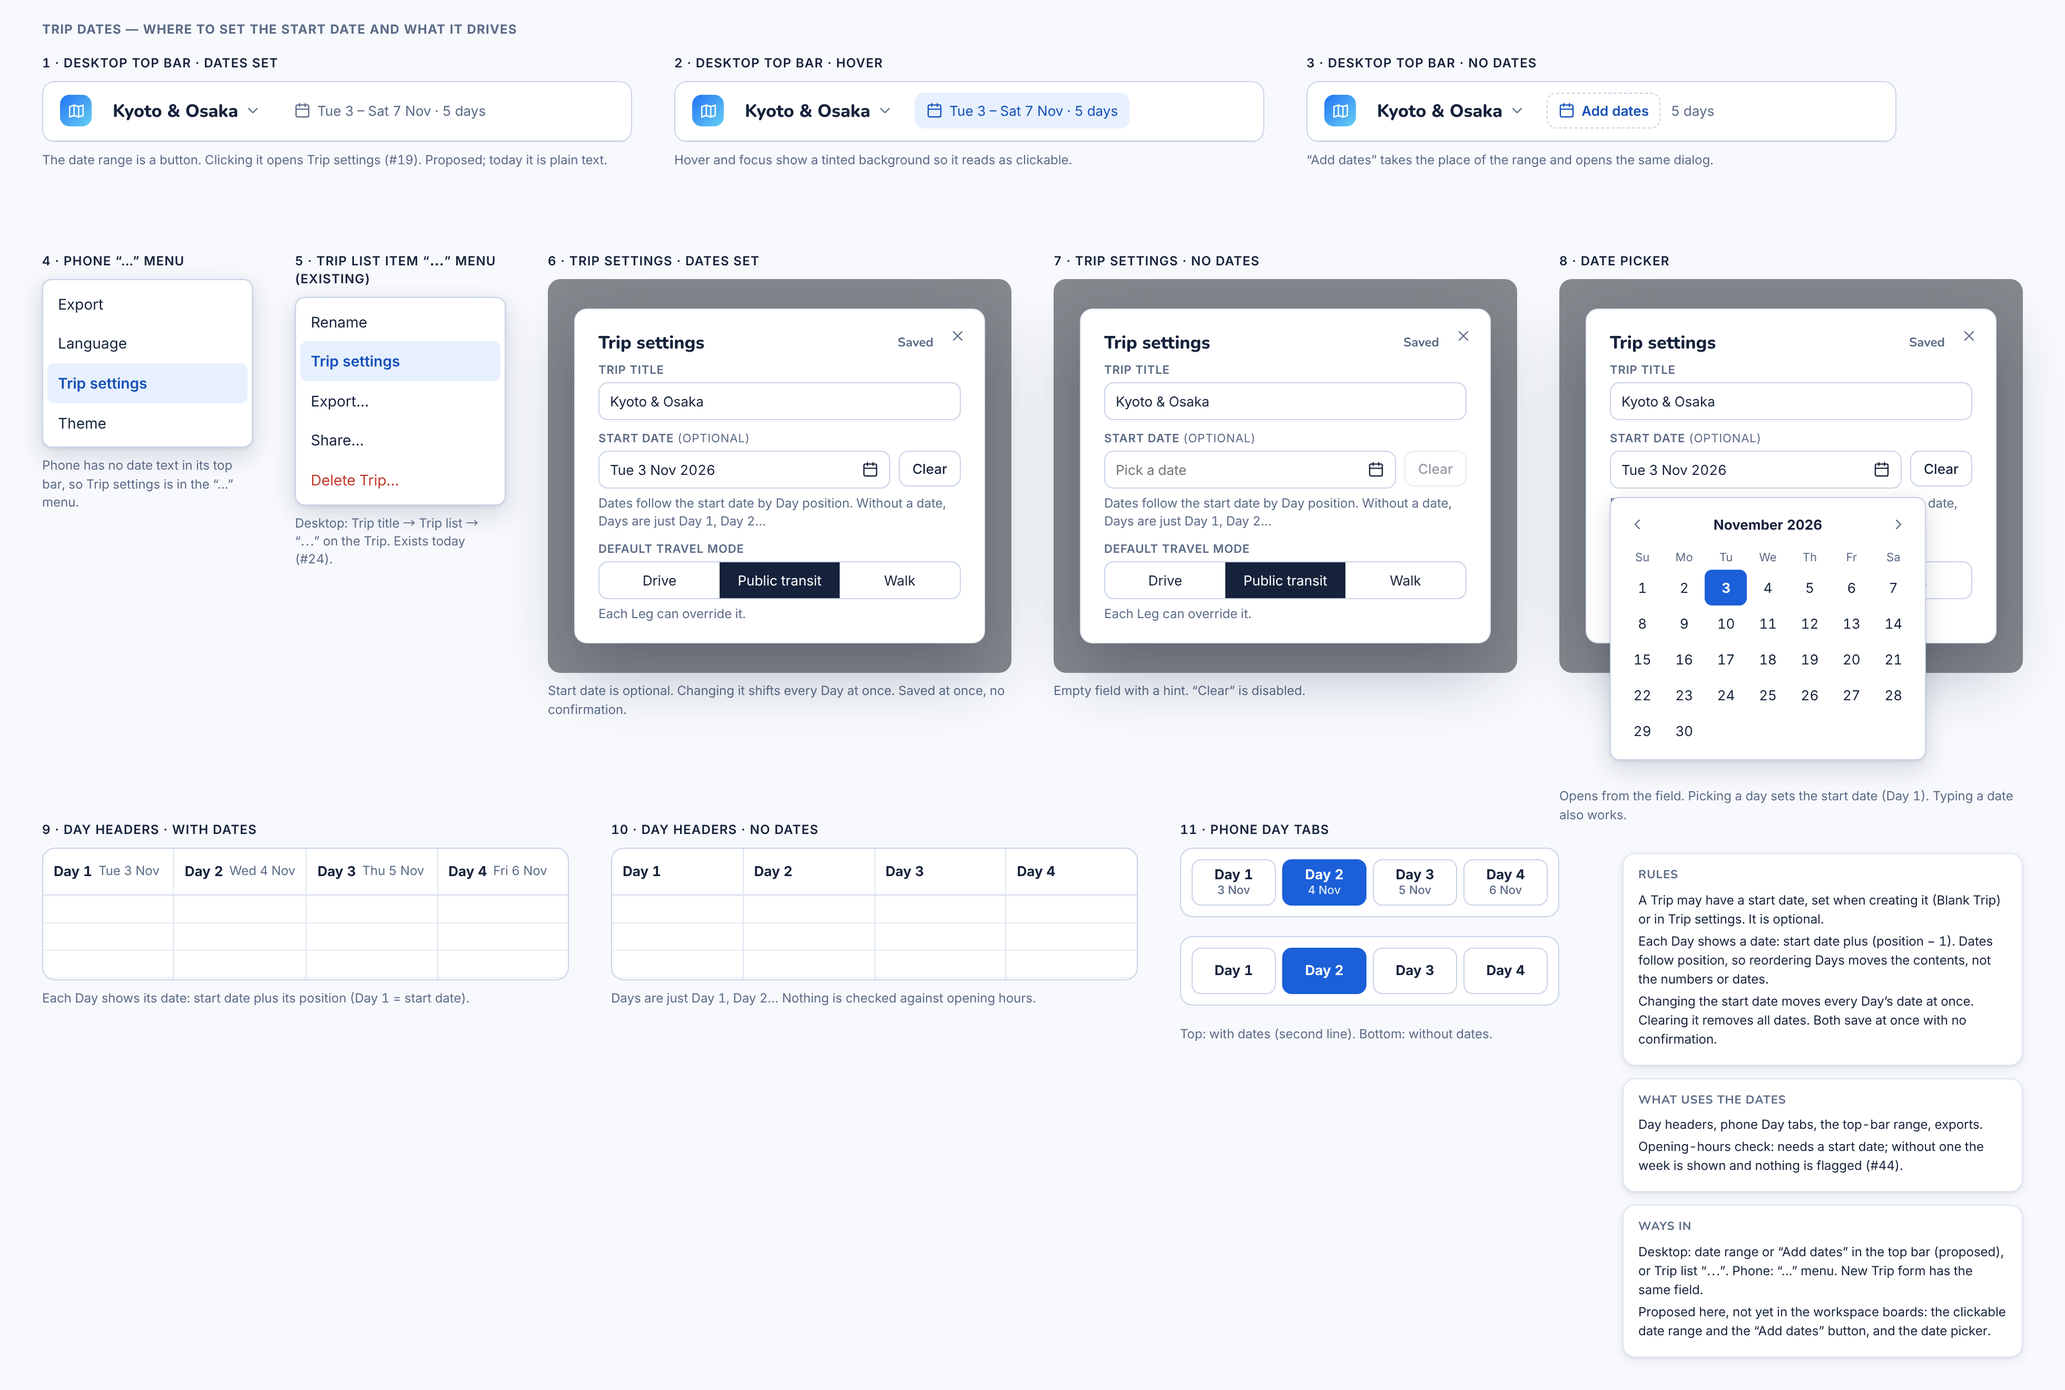
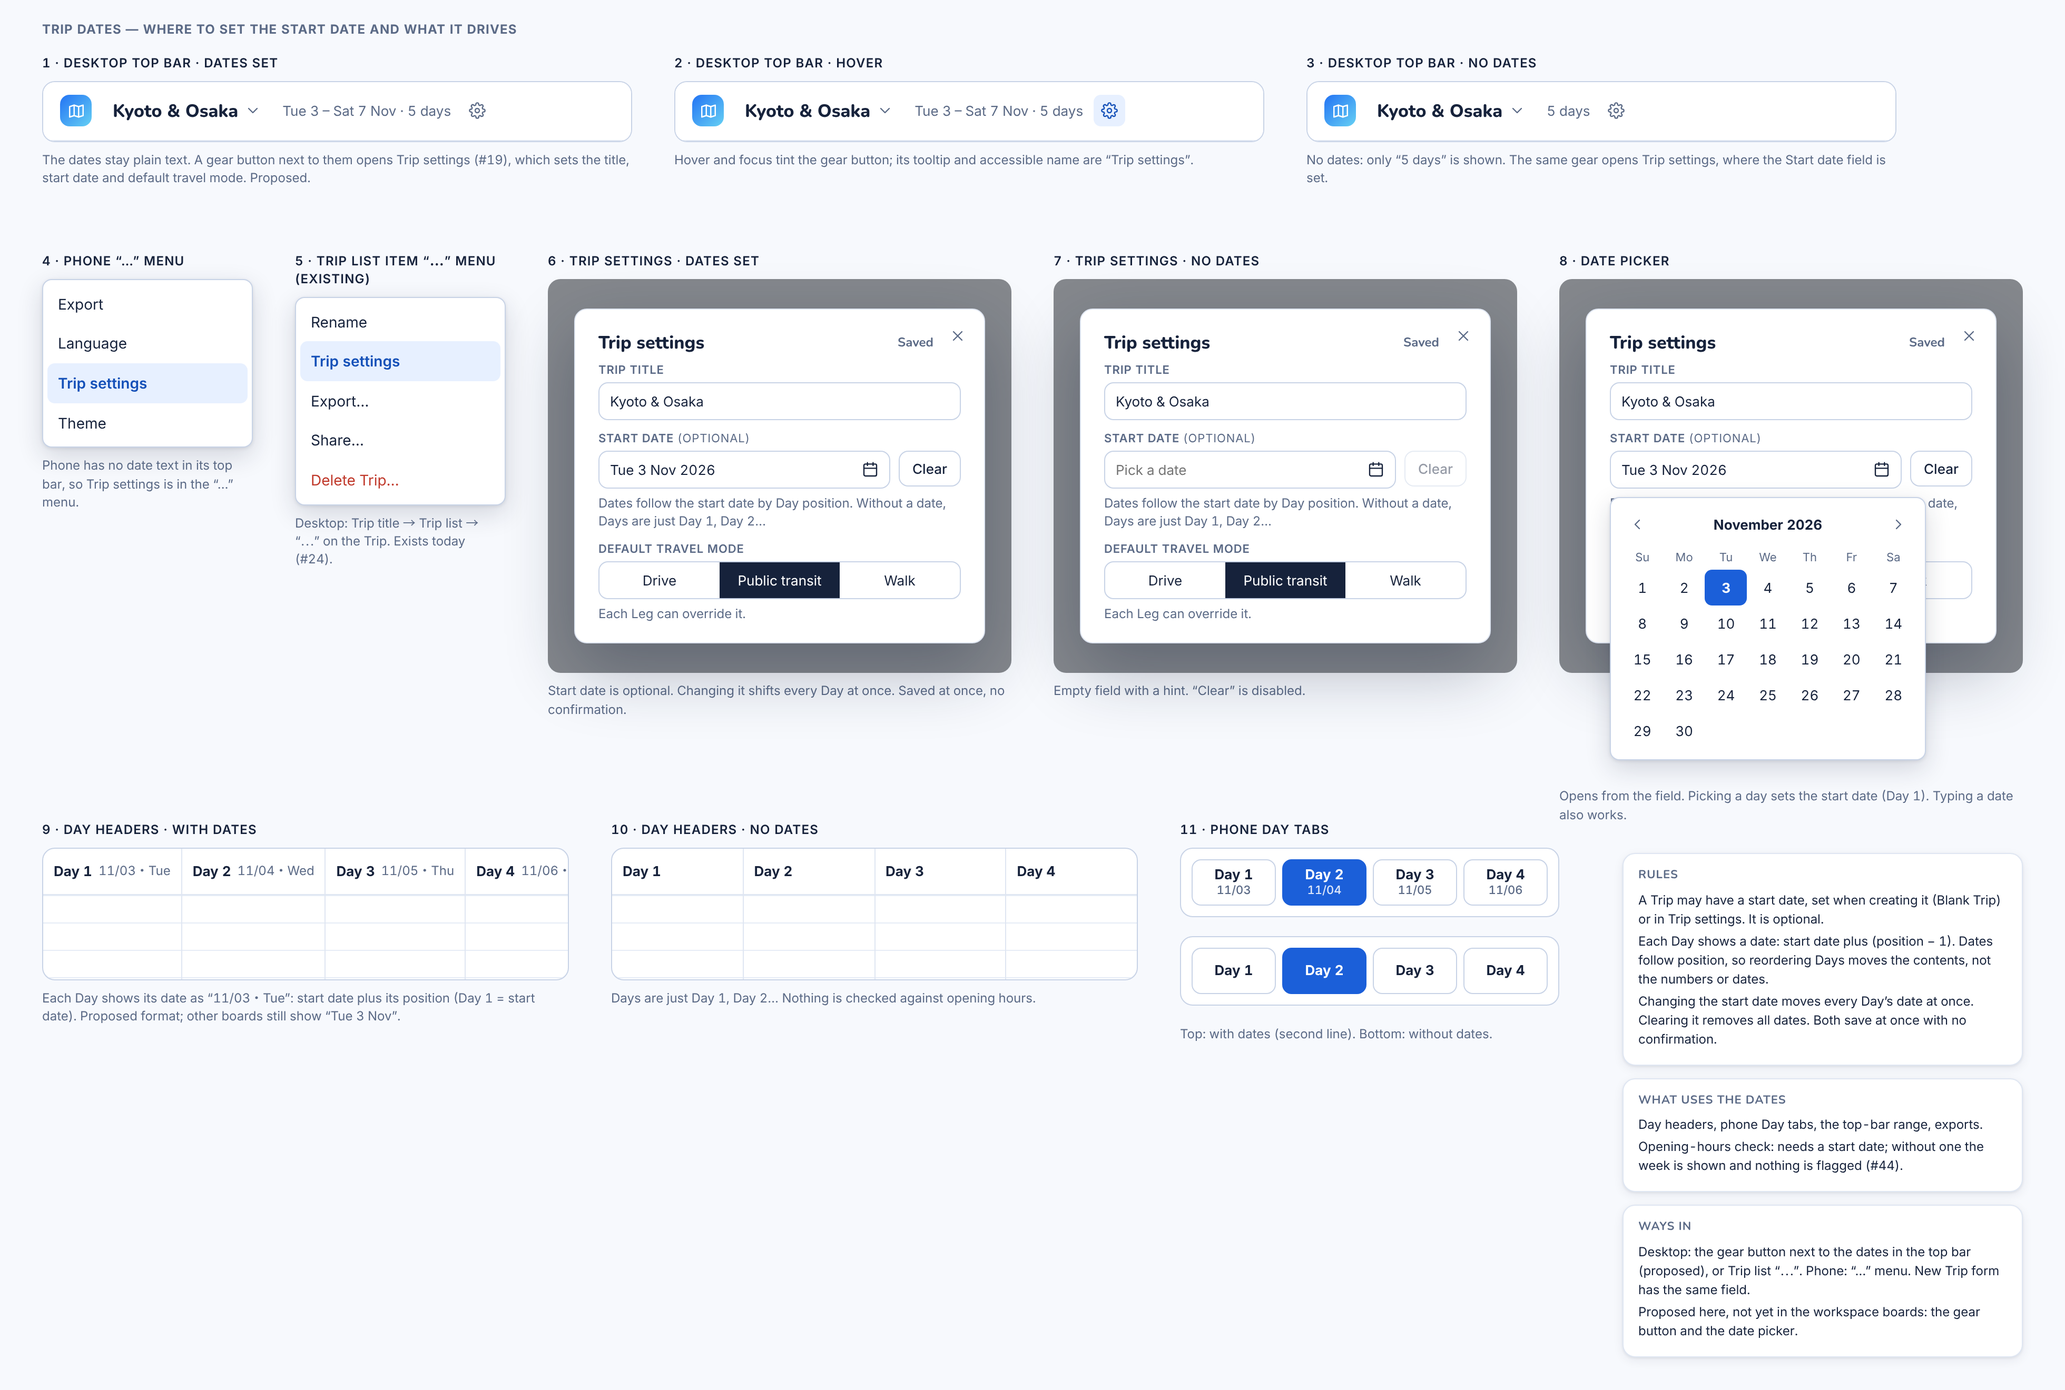
design: Trip settings opens from a gear button in the top bar (45)
The dates stay plain text; a gear button next to them opens Trip settings, which also sets the title and default travel mode. Plan step 35 updated.

Claude-Session: https://claude.ai/code/session_01ApyCzPCJKGqkVKrHKpuQZX

diff --git a/docs/design/source/TripDates.dc.html b/docs/design/source/TripDates.dc.html
@@ -23,6 +23,7 @@ button{font:inherit;color:inherit;cursor:pointer;text-align:left}
 .td-cp{font-size:12px;color:var(--muted);line-height:1.45}
 .td-bw{border:1px solid var(--border2);border-radius:var(--r-lg);overflow:hidden;background:var(--surface)}
 .td-bar{position:static;width:auto}
+.td-gear{color:var(--muted)}.td-gear.hv{background:var(--pri-tint);color:var(--pri-ink)}
 .td-date{display:inline-flex;gap:6px;align-items:center;height:34px;padding:0 10px;border:1px solid transparent;border-radius:var(--r-md);background:transparent;color:var(--muted);font-size:13px;white-space:nowrap}
 .td-date.hv{background:var(--pri-tint);color:var(--pri-ink)}
 .td-date.add{border:1px dashed var(--border2);color:var(--pri-ink);font-weight:600}
@@ -58,7 +59,7 @@ button{font:inherit;color:inherit;cursor:pointer;text-align:left}
 </helmet>
 <div class="hf wfroot">
 <div class="td-t">Trip dates — where to set the start date and what it drives</div>
-<div class="td-row" style="top:52px"><div class="td-item" style="width:560px"><div class="td-cap">1 · Desktop top bar · dates set</div><div class="td-bw"><header class="topbar td-bar"><span class="logo"><svg class="i" style="width:17px;height:17px;" viewBox="0 0 24 24" aria-hidden="true"><path d="M9 4L3 6v14l6-2 6 2 6-2V4l-6 2z"></path><path d="M9 4v14M15 6v14"></path></svg></span><button class="title" aria-haspopup="true" aria-label="Trips: Kyoto &amp; Osaka">Kyoto &amp; Osaka<svg class="i" style="color:var(--muted)" viewBox="0 0 24 24" aria-hidden="true"><path d="M6 9l6 6 6-6"></path></svg></button><button class="td-date" aria-label="Trip dates: Tue 3 to Sat 7 Nov, 5 days. Opens Trip settings"><svg class="i" viewBox="0 0 24 24" fill="none" stroke="currentColor" stroke-width="2" stroke-linecap="round" stroke-linejoin="round" aria-hidden="true" style=""><rect x="3" y="4" width="18" height="17" rx="2"></rect><path d="M3 10h18M8 2v4M16 2v4"></path></svg>Tue 3 – Sat 7 Nov · 5 days</button></header></div><div class="td-cp" style="margin-top:0px">The date range is a button. Clicking it opens Trip settings (#19). Proposed; today it is plain text.</div></div><div class="td-item" style="width:560px"><div class="td-cap">2 · Desktop top bar · hover</div><div class="td-bw"><header class="topbar td-bar"><span class="logo"><svg class="i" style="width:17px;height:17px;" viewBox="0 0 24 24" aria-hidden="true"><path d="M9 4L3 6v14l6-2 6 2 6-2V4l-6 2z"></path><path d="M9 4v14M15 6v14"></path></svg></span><button class="title" aria-haspopup="true" aria-label="Trips: Kyoto &amp; Osaka">Kyoto &amp; Osaka<svg class="i" style="color:var(--muted)" viewBox="0 0 24 24" aria-hidden="true"><path d="M6 9l6 6 6-6"></path></svg></button><button class="td-date hv" aria-label="Trip dates. Opens Trip settings"><svg class="i" viewBox="0 0 24 24" fill="none" stroke="currentColor" stroke-width="2" stroke-linecap="round" stroke-linejoin="round" aria-hidden="true" style=""><rect x="3" y="4" width="18" height="17" rx="2"></rect><path d="M3 10h18M8 2v4M16 2v4"></path></svg>Tue 3 – Sat 7 Nov · 5 days</button></header></div><div class="td-cp" style="margin-top:0px">Hover and focus show a tinted background so it reads as clickable.</div></div><div class="td-item" style="width:560px"><div class="td-cap">3 · Desktop top bar · no dates</div><div class="td-bw"><header class="topbar td-bar"><span class="logo"><svg class="i" style="width:17px;height:17px;" viewBox="0 0 24 24" aria-hidden="true"><path d="M9 4L3 6v14l6-2 6 2 6-2V4l-6 2z"></path><path d="M9 4v14M15 6v14"></path></svg></span><button class="title" aria-haspopup="true" aria-label="Trips: Kyoto &amp; Osaka">Kyoto &amp; Osaka<svg class="i" style="color:var(--muted)" viewBox="0 0 24 24" aria-hidden="true"><path d="M6 9l6 6 6-6"></path></svg></button><button class="td-date add" aria-label="Add dates. Opens Trip settings"><svg class="i" viewBox="0 0 24 24" fill="none" stroke="currentColor" stroke-width="2" stroke-linecap="round" stroke-linejoin="round" aria-hidden="true" style=""><rect x="3" y="4" width="18" height="17" rx="2"></rect><path d="M3 10h18M8 2v4M16 2v4"></path></svg>Add dates</button><span class="muted">5 days</span></header></div><div class="td-cp" style="margin-top:0px">“Add dates” takes the place of the range and opens the same dialog.</div></div></div>
+<div class="td-row" style="top:52px"><div class="td-item" style="width:560px"><div class="td-cap">1 · Desktop top bar · dates set</div><div class="td-bw"><header class="topbar td-bar"><span class="logo"><svg class="i" style="width:17px;height:17px;" viewBox="0 0 24 24" aria-hidden="true"><path d="M9 4L3 6v14l6-2 6 2 6-2V4l-6 2z"></path><path d="M9 4v14M15 6v14"></path></svg></span><button class="title" aria-haspopup="true" aria-label="Trips: Kyoto &amp; Osaka">Kyoto &amp; Osaka<svg class="i" style="color:var(--muted)" viewBox="0 0 24 24" aria-hidden="true"><path d="M6 9l6 6 6-6"></path></svg></button><span class="muted">Tue 3 – Sat 7 Nov · 5 days</span><button class="ib td-gear" aria-label="Trip settings" title="Trip settings"><svg class="i" viewBox="0 0 24 24" fill="none" stroke="currentColor" stroke-width="2" stroke-linecap="round" stroke-linejoin="round" aria-hidden="true"><circle cx="12" cy="12" r="3"></circle><path d="M19.4 15a1.65 1.65 0 0 0 .33 1.82l.06.06a2 2 0 1 1-2.83 2.83l-.06-.06a1.65 1.65 0 0 0-1.82-.33 1.65 1.65 0 0 0-1 1.51V21a2 2 0 1 1-4 0v-.09A1.65 1.65 0 0 0 9 19.4a1.65 1.65 0 0 0-1.82.33l-.06.06a2 2 0 1 1-2.83-2.83l.06-.06a1.65 1.65 0 0 0 .33-1.82 1.65 1.65 0 0 0-1.51-1H3a2 2 0 1 1 0-4h.09A1.65 1.65 0 0 0 4.6 9a1.65 1.65 0 0 0-.33-1.82l-.06-.06a2 2 0 1 1 2.83-2.83l.06.06a1.65 1.65 0 0 0 1.82.33H9a1.65 1.65 0 0 0 1-1.51V3a2 2 0 1 1 4 0v.09a1.65 1.65 0 0 0 1 1.51 1.65 1.65 0 0 0 1.82-.33l.06-.06a2 2 0 1 1 2.83 2.83l-.06.06a1.65 1.65 0 0 0-.33 1.82V9a1.65 1.65 0 0 0 1.51 1H21a2 2 0 1 1 0 4h-.09a1.65 1.65 0 0 0-1.51 1z"></path></svg></button></header></div><div class="td-cp" style="margin-top:0px">The dates stay plain text. A gear button next to them opens Trip settings (#19), which sets the title, start date and default travel mode. Proposed.</div></div><div class="td-item" style="width:560px"><div class="td-cap">2 · Desktop top bar · hover</div><div class="td-bw"><header class="topbar td-bar"><span class="logo"><svg class="i" style="width:17px;height:17px;" viewBox="0 0 24 24" aria-hidden="true"><path d="M9 4L3 6v14l6-2 6 2 6-2V4l-6 2z"></path><path d="M9 4v14M15 6v14"></path></svg></span><button class="title" aria-haspopup="true" aria-label="Trips: Kyoto &amp; Osaka">Kyoto &amp; Osaka<svg class="i" style="color:var(--muted)" viewBox="0 0 24 24" aria-hidden="true"><path d="M6 9l6 6 6-6"></path></svg></button><span class="muted">Tue 3 – Sat 7 Nov · 5 days</span><button class="ib td-gear hv" aria-label="Trip settings" title="Trip settings"><svg class="i" viewBox="0 0 24 24" fill="none" stroke="currentColor" stroke-width="2" stroke-linecap="round" stroke-linejoin="round" aria-hidden="true"><circle cx="12" cy="12" r="3"></circle><path d="M19.4 15a1.65 1.65 0 0 0 .33 1.82l.06.06a2 2 0 1 1-2.83 2.83l-.06-.06a1.65 1.65 0 0 0-1.82-.33 1.65 1.65 0 0 0-1 1.51V21a2 2 0 1 1-4 0v-.09A1.65 1.65 0 0 0 9 19.4a1.65 1.65 0 0 0-1.82.33l-.06.06a2 2 0 1 1-2.83-2.83l.06-.06a1.65 1.65 0 0 0 .33-1.82 1.65 1.65 0 0 0-1.51-1H3a2 2 0 1 1 0-4h.09A1.65 1.65 0 0 0 4.6 9a1.65 1.65 0 0 0-.33-1.82l-.06-.06a2 2 0 1 1 2.83-2.83l.06.06a1.65 1.65 0 0 0 1.82.33H9a1.65 1.65 0 0 0 1-1.51V3a2 2 0 1 1 4 0v.09a1.65 1.65 0 0 0 1 1.51 1.65 1.65 0 0 0 1.82-.33l.06-.06a2 2 0 1 1 2.83 2.83l-.06.06a1.65 1.65 0 0 0-.33 1.82V9a1.65 1.65 0 0 0 1.51 1H21a2 2 0 1 1 0 4h-.09a1.65 1.65 0 0 0-1.51 1z"></path></svg></button></header></div><div class="td-cp" style="margin-top:0px">Hover and focus tint the gear button; its tooltip and accessible name are “Trip settings”.</div></div><div class="td-item" style="width:560px"><div class="td-cap">3 · Desktop top bar · no dates</div><div class="td-bw"><header class="topbar td-bar"><span class="logo"><svg class="i" style="width:17px;height:17px;" viewBox="0 0 24 24" aria-hidden="true"><path d="M9 4L3 6v14l6-2 6 2 6-2V4l-6 2z"></path><path d="M9 4v14M15 6v14"></path></svg></span><button class="title" aria-haspopup="true" aria-label="Trips: Kyoto &amp; Osaka">Kyoto &amp; Osaka<svg class="i" style="color:var(--muted)" viewBox="0 0 24 24" aria-hidden="true"><path d="M6 9l6 6 6-6"></path></svg></button><span class="muted">5 days</span><button class="ib td-gear" aria-label="Trip settings" title="Trip settings"><svg class="i" viewBox="0 0 24 24" fill="none" stroke="currentColor" stroke-width="2" stroke-linecap="round" stroke-linejoin="round" aria-hidden="true"><circle cx="12" cy="12" r="3"></circle><path d="M19.4 15a1.65 1.65 0 0 0 .33 1.82l.06.06a2 2 0 1 1-2.83 2.83l-.06-.06a1.65 1.65 0 0 0-1.82-.33 1.65 1.65 0 0 0-1 1.51V21a2 2 0 1 1-4 0v-.09A1.65 1.65 0 0 0 9 19.4a1.65 1.65 0 0 0-1.82.33l-.06.06a2 2 0 1 1-2.83-2.83l.06-.06a1.65 1.65 0 0 0 .33-1.82 1.65 1.65 0 0 0-1.51-1H3a2 2 0 1 1 0-4h.09A1.65 1.65 0 0 0 4.6 9a1.65 1.65 0 0 0-.33-1.82l-.06-.06a2 2 0 1 1 2.83-2.83l.06.06a1.65 1.65 0 0 0 1.82.33H9a1.65 1.65 0 0 0 1-1.51V3a2 2 0 1 1 4 0v.09a1.65 1.65 0 0 0 1 1.51 1.65 1.65 0 0 0 1.82-.33l.06-.06a2 2 0 1 1 2.83 2.83l-.06.06a1.65 1.65 0 0 0-.33 1.82V9a1.65 1.65 0 0 0 1.51 1H21a2 2 0 1 1 0 4h-.09a1.65 1.65 0 0 0-1.51 1z"></path></svg></button></header></div><div class="td-cp" style="margin-top:0px">No dates: only “5 days” is shown. The same gear opens Trip settings, where the Start date field is set.</div></div></div>
 <div class="td-row" style="top:240px"><div class="td-item" style="width:200px"><div class="td-cap">4 · Phone “…” menu</div><div class="td-menu" style="width:200px"><div class="td-mi">Export</div><div class="td-mi">Language</div><div class="td-mi hi">Trip settings</div><div class="td-mi">Theme</div></div><div class="td-cp" style="margin-top:0px">Phone has no date text in its top bar, so Trip settings is in the “…” menu.</div></div><div class="td-item" style="width:200px"><div class="td-cap">5 · Trip list item “⋯” menu (existing)</div><div class="td-menu" style="width:200px"><div class="td-mi">Rename</div><div class="td-mi hi">Trip settings</div><div class="td-mi">Export…</div><div class="td-mi">Share…</div><div class="td-mi dg">Delete Trip…</div></div><div class="td-cp" style="margin-top:0px">Desktop: Trip title → Trip list → “⋯” on the Trip. Exists today (#24).</div></div><div class="td-item" style="width:440px"><div class="td-cap">6 · Trip settings · dates set</div><div class="td-bd"><section class="dlg" role="dialog" aria-modal="true" style="width:390px"><button class="ib x" aria-label="Close settings"><svg class="i" viewBox="0 0 24 24" fill="none" stroke="currentColor" stroke-width="2" stroke-linecap="round" stroke-linejoin="round" aria-hidden="true" style=""><path d="M6 6l12 12M18 6L6 18"></path></svg></button><h2>Trip settings <span class="muted" style="font-size:12px;font-weight:400;margin-left:auto;margin-right:26px">Saved</span></h2>
 <span class="lbl" style="margin-top:4px">Trip title</span><div class="in"><input aria-label="Trip title" value="Kyoto &amp; Osaka"></div>
 <span class="lbl">Start date <span class="muted" style="font-weight:400">(optional)</span></span><div style="position:relative"><div style="display:flex;gap:8px"><div class="in" style="flex:1"><input aria-label="Start date" value="Tue 3 Nov 2026"><svg class="i" viewBox="0 0 24 24" fill="none" stroke="currentColor" stroke-width="2" stroke-linecap="round" stroke-linejoin="round" aria-hidden="true" style=""><rect x="3" y="4" width="18" height="17" rx="2"></rect><path d="M3 10h18M8 2v4M16 2v4"></path></svg></div><button class="btn">Clear</button></div></div>
@@ -82,7 +83,7 @@ button{font:inherit;color:inherit;cursor:pointer;text-align:left}
 <div class="td-row" style="top:810px;left:1540px"><aside class="td-side">
 <div class="mc"><h4>Rules</h4><div>A Trip may have a start date, set when creating it (Blank Trip) or in Trip settings. It is optional.</div><div>Each Day shows a date: start date plus (position − 1). Dates follow position, so reordering Days moves the contents, not the numbers or dates.</div><div>Changing the start date moves every Day’s date at once. Clearing it removes all dates. Both save at once with no confirmation.</div></div>
 <div class="mc"><h4>What uses the dates</h4><div>Day headers, phone Day tabs, the top-bar range, exports.</div><div>Opening-hours check: needs a start date; without one the week is shown and nothing is flagged (#44).</div></div>
-<div class="mc"><h4>Ways in</h4><div>Desktop: date range or “Add dates” in the top bar (proposed), or Trip list “⋯”. Phone: “…” menu. New Trip form has the same field.</div><div>Proposed here, not yet in the workspace boards: the clickable date range and the “Add dates” button, and the date picker.</div></div>
+<div class="mc"><h4>Ways in</h4><div>Desktop: the gear button next to the dates in the top bar (proposed), or Trip list “⋯”. Phone: “…” menu. New Trip form has the same field.</div><div>Proposed here, not yet in the workspace boards: the gear button and the date picker.</div></div>
 </aside></div>
 </div>
 </x-dc>

diff --git a/docs/implementation-plan.md b/docs/implementation-plan.md
@@ -98,7 +98,7 @@ Each step lists what it needs from earlier steps and when it is done.
 - [ ] **34. Investigate: no transit routes from Google Routes API in Japan.** On 2026-10-19, `routes.googleapis.com/directions/v2:computeRoutes` with `travelMode: TRANSIT` answered `{}` (no route) for every pair tried in Kyoto and Tokyo, with and without `departureTime`, while DRIVE and WALK worked and TRANSIT worked in London. The Google Maps website does show transit for the same pair (Nishiki Market to Kiyomizu-dera: 16 min by city bus). Find out why (coverage of the Routes API, a field or option we do not send, how the destination is given, terms) and what the app should do: keep the default, fall back to another mode, or explain it in the Leg popover. Until then a Leg in Japan has to be switched to Drive or Walk by hand.
 - [ ] **35. Trip dates.** A Trip's optional start date, replacing the temporary fixed date in `apps/web/src/tripDates.ts` (added in step 16 so the opening-hours check can run). Product rules: PRD §3.2 (Days) and §3.5; design: screen 45. *Needs:* 16. Check the Trip list items against step 25.
   - **Data.** `trips.startDate` (a date, nullable), set at creation and in Trip settings; `tripStartDate` returns it or `undefined`. A Day's date is the start date plus its position (Day 1 is the start date), so reordering Days moves contents, not numbers or dates. Changing or clearing the start date saves at once with no confirmation and updates every Day, the opening-hours labels and the exports.
-  - **UI (design 45, to be confirmed by the designer where marked proposed).** Trip settings dialog (19) has the Start date field with a calendar button, a "Clear" button (disabled when empty) and a "Pick a date" hint; a date picker opens from the field and typing a date also works. Entry points: the Trip list "⋯" menu (24) and the phone "…" menu (02) already list Trip settings; on desktop the top-bar date range becomes a button that opens Trip settings, and a Trip without dates shows "Add dates" in its place (proposed). The "Add a start date" text in the opening-hours note (44) opens Trip settings too. Day headers show the date and phone Day tabs a second line; without a date they show only "Day N". Proposed format "11/03・Tue" (Day headers) and "11/03" (tabs); other boards still draw "Tue 3 Nov", so settle the format before building.
+  - **UI (design 45, to be confirmed by the designer where marked proposed).** Trip settings dialog (19) has the Start date field with a calendar button, a "Clear" button (disabled when empty) and a "Pick a date" hint; a date picker opens from the field and typing a date also works. Entry points: the Trip list "⋯" menu (24) and the phone "…" menu (02) already list Trip settings; on desktop a gear button next to the dates in the top bar opens Trip settings (proposed); a Trip without dates shows only the day count there, with the same gear. The "Add a start date" text in the opening-hours note (44) opens Trip settings too. Day headers show the date and phone Day tabs a second line; without a date they show only "Day N". Proposed format "11/03・Tue" (Day headers) and "11/03" (tabs); other boards still draw "Tue 3 Nov", so settle the format before building.
   - **Done when:** a Trip can be created with or without a start date and it can be set, changed and cleared in Trip settings; Day dates follow position and move with a changed start date; a Trip without one shows no dates and the opening-hours note links to Trip settings; the temporary fixed date is gone; tests and a browser check pass.
 
 ## Known issues (not scheduled)
